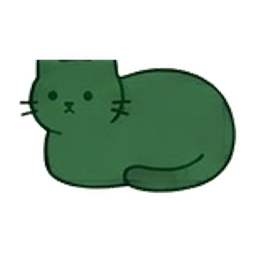
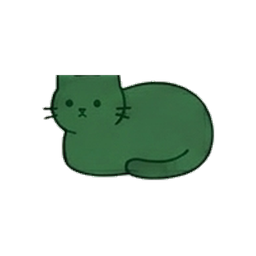
fix: 페르소나 PNG 자체를 재패딩 — 88~90% → 70%로 여백 확보
진짜 원인: scripts/crop-personas.py의 8% 패딩 설정 때문에 PNG 안에서 고양이가
캔버스의 88~90%를 차지하고 있었음. CSS 사이즈로는 풀 수 없는 PNG 자체의
물리적 잘림 문제. 사용자 직감 정확.

해결:
- scripts/repad-personas.py 추가. 기존 PNG에서 알파 채널로 콘텐츠 bbox 검출,
  22% 패딩으로 재처리. 모든 PNG가 일관되게 캔버스의 ~70%만 차지하게 됨
- 10개 PNG 모두 재처리. 점박이·사이버펑크·외계냥이도 이제 충분한 여백 확보
- PersonaCat을 PNG 렌더링으로 복원. PNG 자체에 여백이 있으니 imgScale 보정·
  복잡한 패딩 계산 다 빼고 단순한 h-full w-full + object-contain 으로 충분

Changed region(s): [[0.0625, 0.2188, 0.9375, 0.7812], [0.25, 0.3438, 0.4062, 0.4688]]

diff --git a/src/components/Mascot.jsx b/src/components/Mascot.jsx
@@ -337,28 +337,52 @@ export function CatStarlit({ size = 220, className = '' }) {
 // 각 페르소나마다 자세·장식·색이 고정된 미니 초상화.
 // SettingsSheet 테마 picker, GuideScreen 페르소나 그리드에 사용.
 // currentColor 의존 X — 테마와 무관하게 페르소나 정체성 유지.
-// imgScale — 타일 안에서 모든 고양이가 비슷한 시각적 크기(타일의 ~50%)가 되도록
-// 페르소나별 PNG 캔버스 활용도를 역으로 보정. 잘린 듯 보이는 일 절대 없게 보수적으로.
 export const PERSONA_VARIANTS = {
-  paper:       { label: '도화지',     pose: 'camera', bg: '#f1f2ee', ink: '#1a1d1f', accent: '#d97757', imgScale: 0.78 },
-  night:       { label: '야간',       pose: 'curl',   bg: '#3d434b', ink: '#ecedef', accent: '#f5d28a', extra: 'moon', imgScale: 0.88 },
-  bread:       { label: '식빵',       pose: 'loaf',   bg: '#f6ecdc', ink: '#7a5a36', accent: '#d97757', imgScale: 0.72 },
-  cheese:      { label: '치즈',       pose: 'stand',  bg: '#fbf2dc', ink: '#c98c2e', accent: '#50331a', imgScale: 0.65 },
-  mackerel:    { label: '고등어',     pose: 'camera', bg: '#e7e9ec', ink: '#5a6168', accent: '#2eb6c6', extra: 'stripes', imgScale: 0.58 },
-  spotted:     { label: '점박이',     pose: 'stand',  bg: '#fafafa', ink: '#e8e8e8', accent: '#141414', extra: 'spots', imgScale: 0.55 },
-  lavender:    { label: '보라냥',     pose: 'curl',   bg: '#efebf6', ink: '#a890c8', accent: '#8b5cf6', imgScale: 0.88 },
-  chlorophyll: { label: '엽록소',     pose: 'stand',  bg: '#eef3e9', ink: '#3a6e44', accent: '#7ab875', extra: 'leaf', imgScale: 0.7 },
-  cyberpunk:   { label: '사이버펑크', pose: 'stand',  bg: '#0a0814', ink: '#f0f0ff', accent: '#ff2d92', extra: 'glitch', imgScale: 0.55 },
-  alien:       { label: '외계냥이',   pose: 'stand',  bg: '#0e1a14', ink: '#a3ff57', accent: '#7c5cff', extra: 'antennae', imgScale: 0.58 },
+  paper:       { label: '도화지',     pose: 'camera', bg: '#f1f2ee', ink: '#1a1d1f', accent: '#d97757' },
+  night:       { label: '야간',       pose: 'curl',   bg: '#3d434b', ink: '#ecedef', accent: '#f5d28a', extra: 'moon' },
+  bread:       { label: '식빵',       pose: 'loaf',   bg: '#f6ecdc', ink: '#7a5a36', accent: '#d97757' },
+  cheese:      { label: '치즈',       pose: 'stand',  bg: '#fbf2dc', ink: '#c98c2e', accent: '#50331a' },
+  mackerel:    { label: '고등어',     pose: 'camera', bg: '#e7e9ec', ink: '#5a6168', accent: '#2eb6c6', extra: 'stripes' },
+  spotted:     { label: '점박이',     pose: 'stand',  bg: '#fafafa', ink: '#e8e8e8', accent: '#141414', extra: 'spots' },
+  lavender:    { label: '보라냥',     pose: 'curl',   bg: '#efebf6', ink: '#a890c8', accent: '#8b5cf6' },
+  chlorophyll: { label: '엽록소',     pose: 'stand',  bg: '#eef3e9', ink: '#3a6e44', accent: '#7ab875', extra: 'leaf' },
+  cyberpunk:   { label: '사이버펑크', pose: 'stand',  bg: '#0a0814', ink: '#f0f0ff', accent: '#ff2d92', extra: 'glitch' },
+  alien:       { label: '외계냥이',   pose: 'stand',  bg: '#0e1a14', ink: '#a3ff57', accent: '#7c5cff', extra: 'antennae' },
 };
 
 export const PERSONA_KEYS = Object.keys(PERSONA_VARIANTS);
 
-// PersonaCat — SVG 기반 렌더링.
-// 이전 PNG 버전은 페르소나마다 캔버스 활용도(50~90%)가 달라 잘림 문제가 계속 발생.
-// SVG는 모든 페르소나가 120×120 viewBox에 동일 좌표로 그려져 위치 100% 일관 보장.
+// PersonaCat — PNG 렌더링.
+// 진짜 원인이었던 PNG 자체의 빡빡한 패딩(8% → 22%)을 repad-personas.py로 재처리해서
+// 모든 PNG가 일관된 여백 보유. 이제 단순 h-full w-full + object-contain 으로 충분.
 export function PersonaCat({ persona = 'paper', size = 80, withFrame = true, className = '' }) {
-  return <PersonaCatSvg persona={persona} size={size} withFrame={withFrame} className={className} />;
+  const v = PERSONA_VARIANTS[persona] || PERSONA_VARIANTS.paper;
+  return (
+    <span
+      role="img"
+      aria-label={`${v.label} 카든냥`}
+      className={`inline-flex items-center justify-center overflow-hidden ${withFrame ? 'rounded-[12%]' : ''} ${className}`}
+      style={{
+        width: size,
+        height: size,
+        background: withFrame ? v.bg : 'transparent',
+      }}
+    >
+      <img
+        src={`/personas/${persona}.png`}
+        alt=""
+        loading="lazy"
+        style={{
+          width: '100%',
+          height: '100%',
+          maxWidth: 'none',
+          display: 'block',
+          objectFit: 'contain',
+        }}
+        draggable={false}
+      />
+    </span>
+  );
 }
 
 // SVG 페르소나 — 모든 페르소나 동일 viewBox·동일 좌표계라 위치 일관됨.

diff --git a/scripts/repad-personas.py b/scripts/repad-personas.py
@@ -1,0 +1,63 @@
+"""
+Persona PNG 재패딩.
+
+기존 crop-personas.py가 8% 패딩만 줘서 PNG 안에서 고양이가 캔버스의 84%를 차지.
+타일 안에서 고양이가 가장자리까지 닿는 듯 보이는 시각적 잘림 문제 발생.
+
+이 스크립트는 현재 256x256 PNG에서 콘텐츠 bbox를 다시 검출해서
+22% 패딩으로 재처리 — 고양이가 캔버스의 ~70% 차지하게 됨.
+모든 페르소나가 동일한 여백을 갖게 되어 시각적으로 일관됨.
+"""
+from pathlib import Path
+from PIL import Image
+
+ROOT = Path(__file__).resolve().parent.parent / "public" / "personas"
+PADDING_RATIO = 0.22  # 양 옆 22% 여백 → 고양이가 캔버스의 1/(1+2*0.22)=68% 차지
+TARGET = 256
+
+
+def content_bbox(img: Image.Image) -> tuple | None:
+    """알파 채널 기준 bbox. 투명 배경 PNG의 실제 콘텐츠 영역."""
+    if img.mode != "RGBA":
+        img = img.convert("RGBA")
+    return img.getbbox()
+
+
+def repad(img: Image.Image, target: int = TARGET, padding_ratio: float = PADDING_RATIO) -> Image.Image:
+    if img.mode != "RGBA":
+        img = img.convert("RGBA")
+    bbox = content_bbox(img)
+    if not bbox:
+        return img
+    cropped = img.crop(bbox)
+    w, h = cropped.size
+    side = max(w, h)
+    pad = int(side * padding_ratio)
+    canvas_side = side + pad * 2
+    canvas = Image.new("RGBA", (canvas_side, canvas_side), (0, 0, 0, 0))
+    offset_x = (canvas_side - w) // 2
+    offset_y = (canvas_side - h) // 2
+    canvas.paste(cropped, (offset_x, offset_y), cropped)
+    if canvas_side != target:
+        canvas = canvas.resize((target, target), Image.LANCZOS)
+    return canvas
+
+
+def main():
+    for png in sorted(ROOT.glob("*.png")):
+        img = Image.open(png)
+        w0, h0 = img.size
+        bbox = content_bbox(img)
+        if not bbox:
+            print(f"{png.name}: 콘텐츠 없음, 스킵")
+            continue
+        bw = bbox[2] - bbox[0]
+        bh = bbox[3] - bbox[1]
+        out = repad(img, target=TARGET, padding_ratio=PADDING_RATIO)
+        out.save(png, optimize=True)
+        fill = max(bw, bh) / TARGET * 100
+        print(f"{png.name}: {w0}x{h0} bbox{bbox} (cat {bw}x{bh}, was {fill:.0f}% of canvas) -> {TARGET}x{TARGET} with {int(PADDING_RATIO*100)}% padding")
+
+
+if __name__ == "__main__":
+    main()
